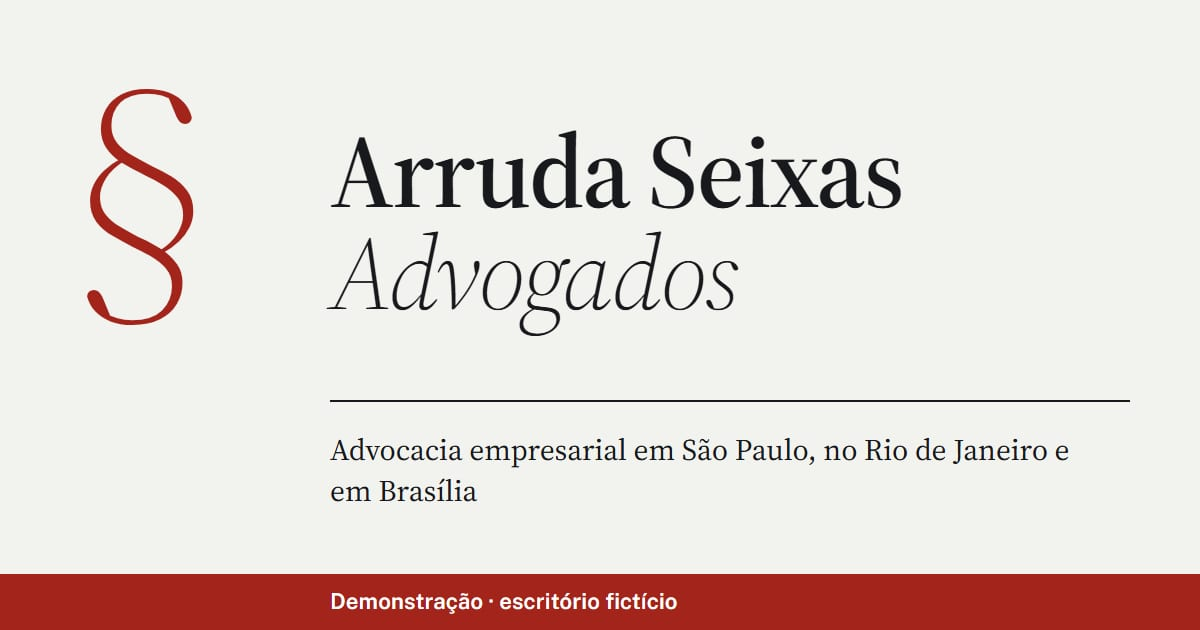
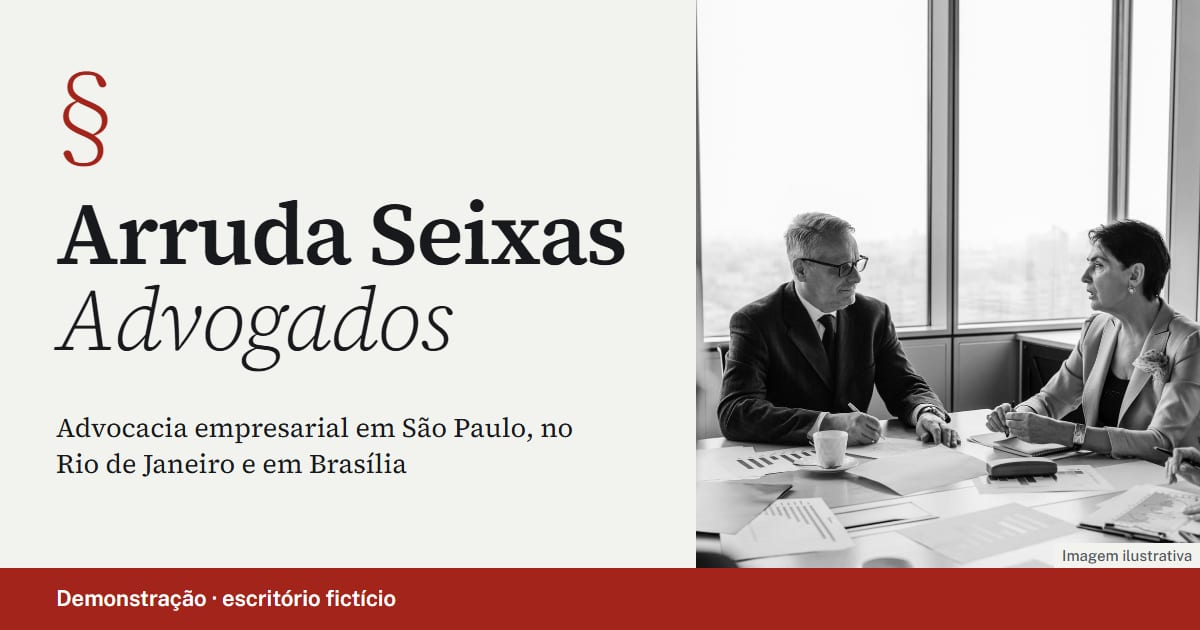
fix(arruda-seixas): imagem social com a foto da reuniao, para a previa do WhatsApp -- seo-local

Changed region(s): [[0.0, 0.0, 1.0, 0.9952], [0.8325, 0.4222, 0.8633, 0.4524]]

diff --git a/docs/paginas/arruda-seixas/creditos-imagens.md b/docs/paginas/arruda-seixas/creditos-imagens.md
@@ -20,7 +20,9 @@ legenda "Imagem ilustrativa". Licença conferida na página de cada imagem em 20
 | `socio-juliana` | `socio-juliana-320/640` | https://www.pexels.com/photo/a-woman-in-a-business-suit-smiling-27086922/ | Helena Lopes | Sócios — Juliana Pacheco Sá |
 | `socio-eduardo` | `socio-eduardo-320/640` | https://www.pexels.com/photo/man-in-suit-17582358/ | Sandro Tavares | Sócios — Eduardo Mafra Lins |
 
-A imagem social (`social.jpg`) é tipográfica, sem foto.
+A imagem social (`social.jpg`, 1200×630) deriva de `reuniao`: nome e § à esquerda, a reunião à direita com "Imagem
+ilustrativa", faixa vermelha "Demonstração · escritório fictício" (refeita em 2026-09-23 — a 1ª era só tipográfica
+e a prévia do WhatsApp não mostrava as fotos da 2ª versão).
 
 ## Tratamento (o mesmo em todas)
 
